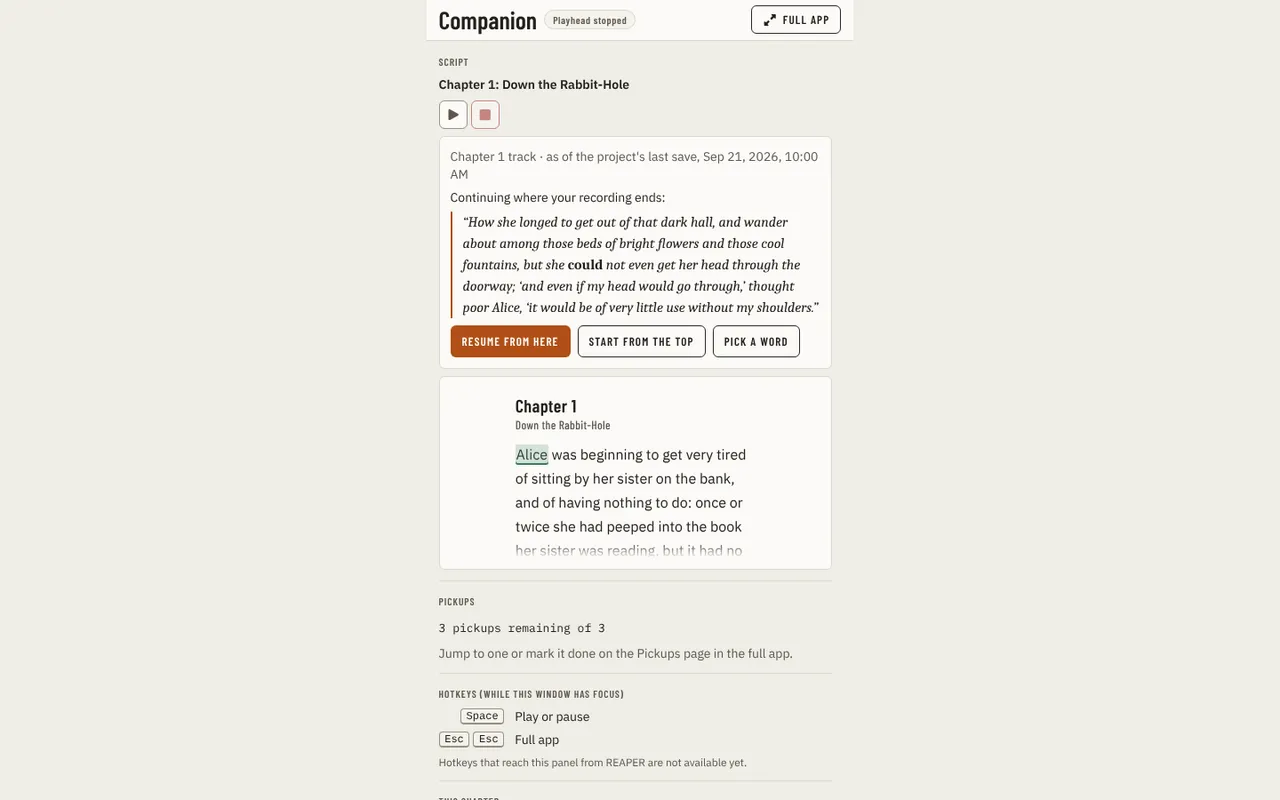
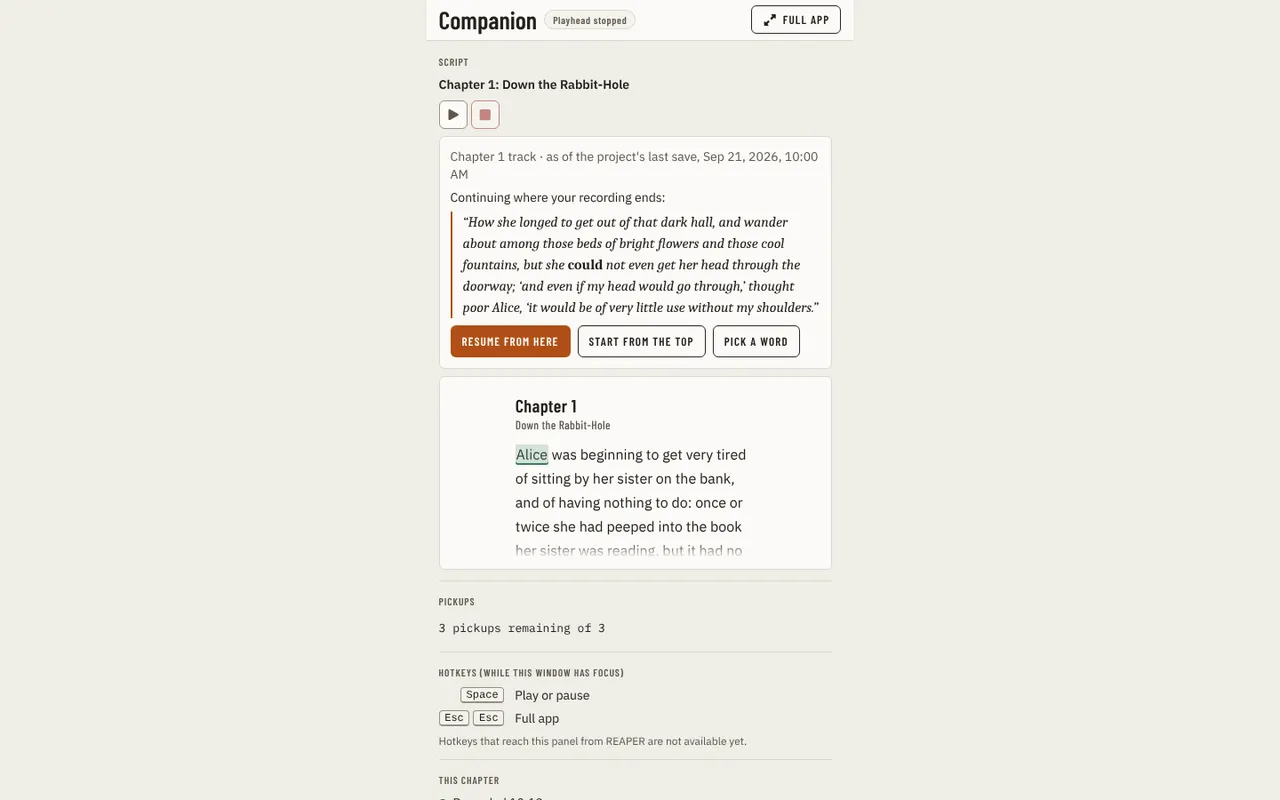
fix(ui): drop the Companion pickups instruction and the playhead note paragraph (#2707)

Changed region(s): [[0.3438, 0.8125, 0.625, 1.0]]

diff --git a/src/studio/ui/src/components/booth/CompanionShell.tsx b/src/studio/ui/src/components/booth/CompanionShell.tsx
@@ -90,7 +90,7 @@ function useCompanionWindow(): string | null {
 // Mock 07: sections sit full-bleed on `--bg` (no card border, background or radius of their own - `CompactShell`'s
 // `main` already gives the whole column its side padding), separated from the one before by a 1 px `--border` rule.
 // The very first section sits right under the header's own rule, so it draws none of its own.
-function Section({ title, badge, children, first = false }: { title: string; badge?: ReactNode; children: ReactNode; first?: boolean }) {
+function Section({ title, badge, children, first = false }: { title: string; badge?: ReactNode; children?: ReactNode; first?: boolean }) {
   const headingId = useId();
   return (
     <section aria-labelledby={headingId} className={`text-sm ${first ? '' : 'border-t border-[var(--border)] pt-3'}`}>
@@ -264,9 +264,7 @@ export function CompanionShell({ session: t, follow, chapterTitle, chapterId, re
           <CompanionThisChapter chapterId={chapterId} />
         </Section>
         {/* Not built yet: last, so the working sections come first (XBO-32). */}
-        <Section title="Note at playhead" badge={<StatusBadge tone="neutral" label="Coming soon" />}>
-          <p style={{ color: 'var(--text-muted)' }}>The proofer&apos;s note at REAPER&apos;s playhead, with Resolve and Fine as read, will show here.</p>
-        </Section>
+        <Section title="Note at playhead" badge={<StatusBadge tone="neutral" label="Coming soon" />} />
       </CompactShell>
     </div>,
     document.body,

diff --git a/src/studio/ui/tests/visual/prose/prose-inventory.ts b/src/studio/ui/tests/visual/prose/prose-inventory.ts
@@ -26,11 +26,6 @@ export type ProseEntry = { file: string; text: string; class: ProseClass };
 export const PROSE_INVENTORY: ProseEntry[] = [
   { file: 'components/booth/CompanionShell.tsx', text: 'Hotkeys that reach this panel from REAPER are not available yet.', class: 'state' },
   {
-    file: 'components/booth/CompanionShell.tsx',
-    text: 'The proofer&apos;s note at REAPER&apos;s playhead, with Resolve and Fine as read, will show here.',
-    class: 'state',
-  },
-  {
     file: 'components/booth/RecordInReaperConfirm.tsx',
     text: 'Play will arm and start recording in REAPER on the track linked to … , and Stop will stop that recording.',
     class: 'overlay',
@@ -318,7 +313,6 @@ export const PROSE_INVENTORY: ProseEntry[] = [
     text: 'Writes an HTML page anyone can open and a JSON file with the same findings, of the files measured and checked here, into this project’s …/delivery folder. Every open finding and every file not measured is listed. It is a measurement, not a distributor’s approval, and your audio is never changed. Without the full location, only file names are written.',
     class: 'overlay',
   },
-  { file: 'components/pickups/PickupsCompanionSummary.tsx', text: 'Jump to one or mark it done on the Pickups page in the full app.', class: 'instruction' },
   {
     file: 'components/pickups/list/PickupsTable.tsx',
     text: 'A pickup can be added once the list has been read. If it could not be read, use Retry.',

diff --git a/src/studio/ui/tests/visual/inFlowProse.test.ts b/src/studio/ui/tests/visual/inFlowProse.test.ts
@@ -9,7 +9,7 @@ import { PROSE_INVENTORY } from './prose/prose-inventory';
 // manual under the Editing waveform (#2251); this file makes that a class guard rather than one fix.
 
 /** `instruction` and `explanation` entries in the inventory: drawn in a page's flow, so debt. The number may only go down. */
-const MAX_IN_FLOW_INSTRUCTIONS = 22;
+const MAX_IN_FLOW_INSTRUCTIONS = 21;
 /** Settings rows whose always-shown description is longer than one short line (60 characters). The number may only go down. */
 const MAX_LONG_SETTING_DESCRIPTIONS = 0;
 /** A hover or focus hint is a few words on one line: at most this many characters and one sentence. */

diff --git a/src/studio/ui/src/components/pickups/PickupsCompanionSummary.tsx b/src/studio/ui/src/components/pickups/PickupsCompanionSummary.tsx
@@ -26,9 +26,6 @@ export function PickupsCompanionSummary() {
           {next.note}
         </p>
       )}
-      <p className="mt-1 text-sm" style={{ color: 'var(--text-muted)' }}>
-        Jump to one or mark it done on the Pickups page in the full app.
-      </p>
     </div>
   );
 }

diff --git a/docs/guides/using-the-app/pickups.md b/docs/guides/using-the-app/pickups.md
@@ -130,7 +130,7 @@ under the list at its own width. From there:
 ## In the Booth's companion panel
 
 The companion panel's **Pickups** section shows how many of the DAW's pickup markers are still open, out of the total. It
-does not change them.
+does not change them: jump to a pickup or mark it done on this page in the full app.
 
 ---
 
